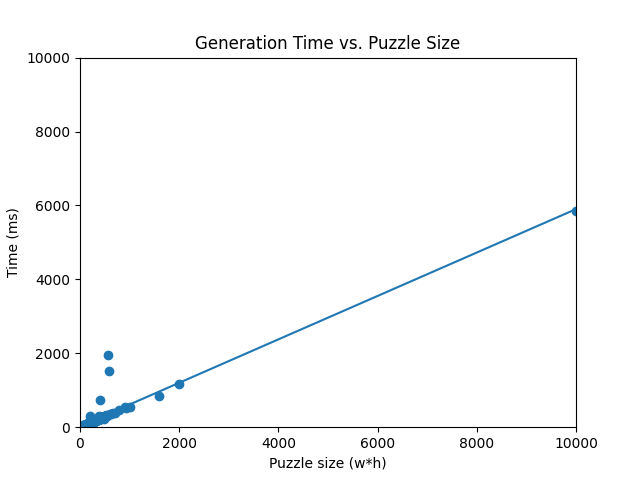
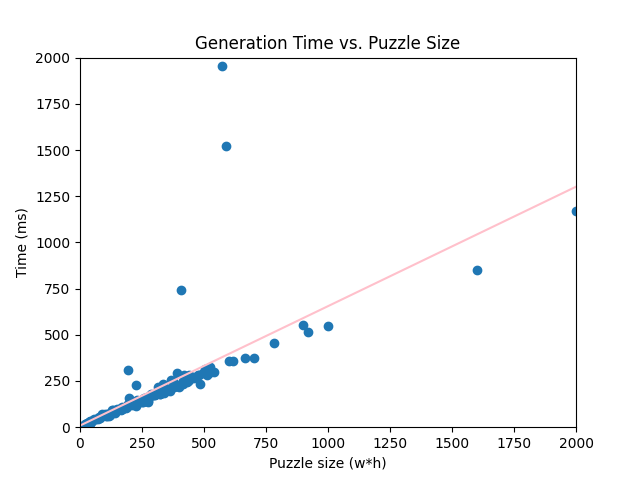
Adjust plots

diff --git a/plot_times.py b/plot_times.py
@@ -14,6 +14,15 @@ def main():
             times.append(time)
             sizes.append(size)
 
+    data = list(zip(sizes, times))
+    data.sort(key=lambda x: x[1])
+    print(data[-1])
+    data = data[:-1]
+
+
+
+    sizes, times = zip(*data)
+
 
     plt.title('Solving Time vs. Puzzle Size')
     plt.xlabel('Puzzle size (w*h)')
@@ -22,7 +31,7 @@ def main():
     plt.ylim(0, max(max(sizes), int(max(times))))
 
     plt.scatter(sizes, times)
-    plt.plot(np.unique(sizes), np.poly1d(np.polyfit(sizes, times, 1))(np.unique(sizes)))
+    plt.plot(np.unique(sizes), np.poly1d(np.polyfit(sizes, times, 1))(np.unique(sizes)), color="pink")
 
     plt.savefig('solving-times.png')
     plt.show()
